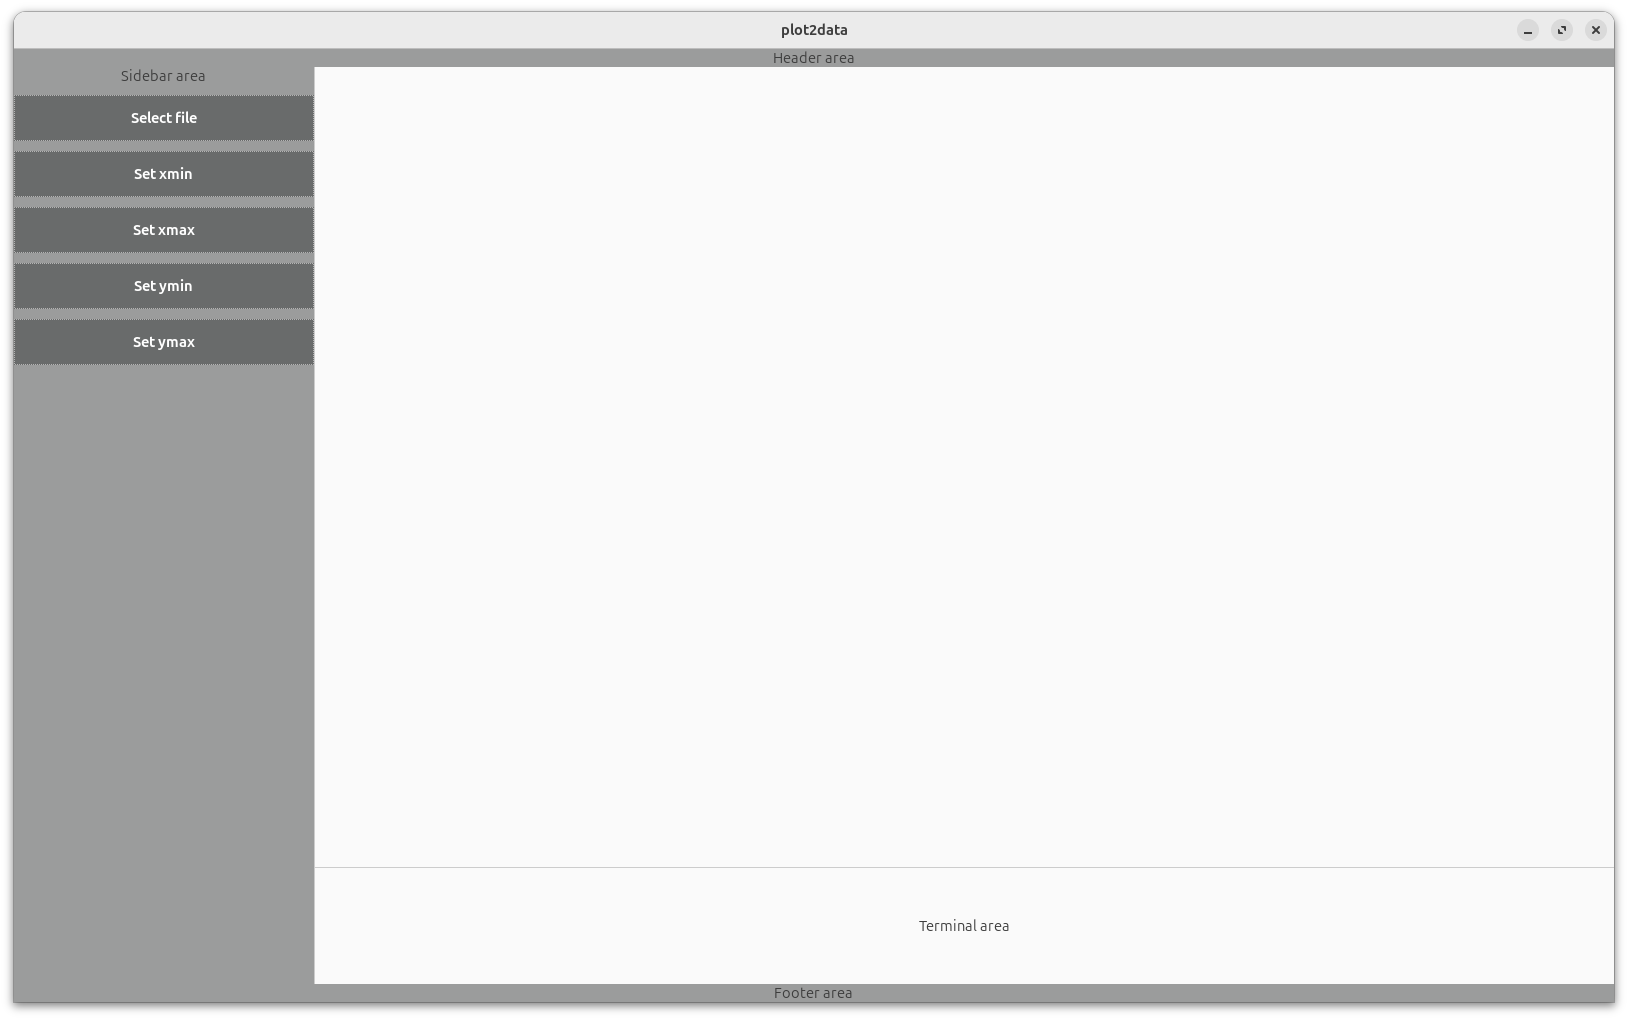
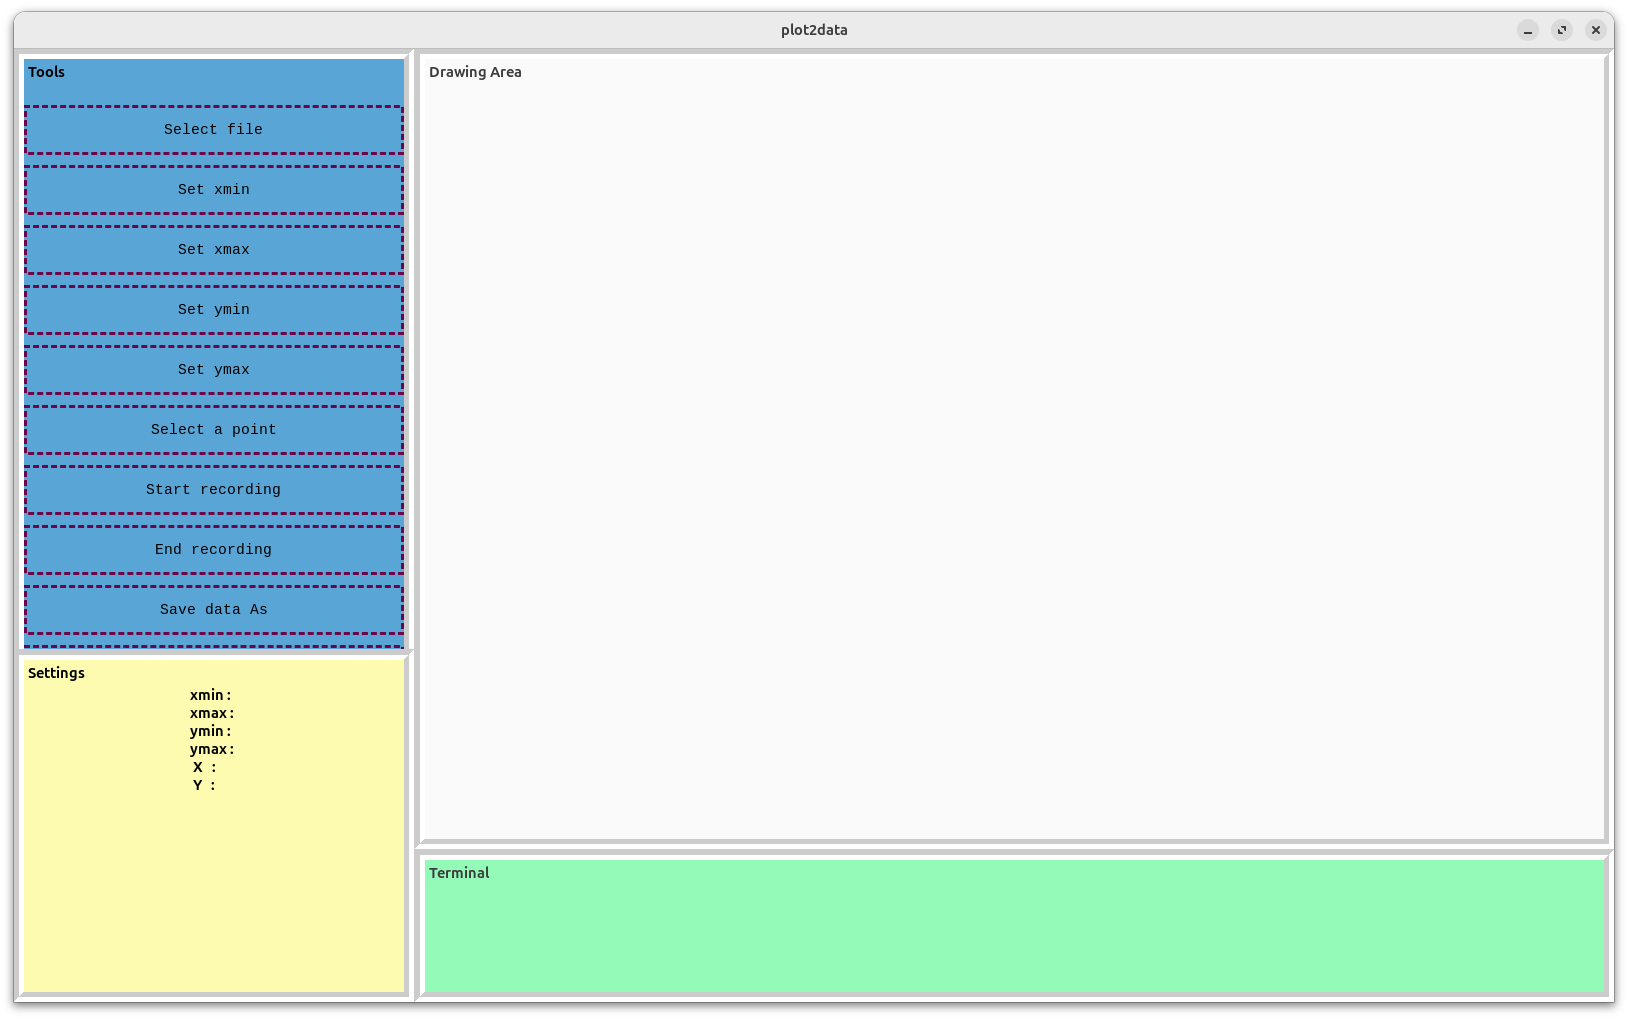
separate sidebar in two blocks

diff --git a/custom_gtkmm.css b/custom_gtkmm.css
@@ -6,12 +6,13 @@
 	border-color: rgb(108, 5, 71);
 	border-radius: 0px;
 	border-style: dashed;
-	border-width: 5px;
+	border-width: 3px;
 	padding: 10px;
+	font-family: "Lucida Console", "Courier New", monospace;
 }
 
 .button-layout:hover {
-	background: #45A049;
+	background: rgb(88, 145, 244);
 }
 
 .bar {
@@ -27,8 +28,17 @@
 	border-width: 10px;
 }
 
-#frame-sidebar {
+#frame-tools {
 	background: rgb(88, 165, 214);
+	color: rgb(0, 0, 0);
+	font-weight: bold;
+	border-radius: 0px;
+	border-style: groove;
+	border-width: 10px;
+}
+
+#frame-settings {
+	background: rgb(252, 251, 175);
 	color: rgb(0, 0, 0);
 	font-weight: bold;
 	border-radius: 0px;
@@ -44,3 +54,7 @@
 	border-width: 10px;
 }
 
+#separator-sidebar {
+	background: rgb(255, 255, 255);
+	min-height: 2px;
+}

diff --git a/app.cpp b/app.cpp
@@ -22,9 +22,13 @@ Window::Window() :
 	VBox_header(Gtk::Orientation::VERTICAL,10),
 	VBox_body(Gtk::Orientation::VERTICAL,10),
 	VBox_footer(Gtk::Orientation::VERTICAL,10),
-	VBox_sidebar(Gtk::Orientation::VERTICAL,10),
+	VBox_sidebar(Gtk::Orientation::VERTICAL,0),
+	VBox_tools(Gtk::Orientation::VERTICAL,10),
+	VBox_settings(Gtk::Orientation::VERTICAL,10),
 	HPaned(Gtk::Orientation::HORIZONTAL),
+	VPaned_sidebar(Gtk::Orientation::VERTICAL),
 	VPaned(Gtk::Orientation::VERTICAL)
+	//Separator_sidebar(Gtk::Orientation::HORIZONTAL)
 {
 	set_title("plot2data");
 	set_default_size(1600,990);
@@ -40,50 +44,89 @@ Window::Window() :
 	// Footer
 	VBox_footer.add_css_class("bar");
 	// Body overview
-		// left side
 	VBox_body.append(HPaned);
-	HPaned.set_start_child(Frame_sidebar);
-	HPaned.set_position(300); // requested size for the first child
-	Frame_sidebar.set_label("Tools");
-	Frame_sidebar.set_name("frame-sidebar");
-	Frame_sidebar.set_child(VBox_sidebar);
-		// right side
+	HPaned.set_start_child(VBox_sidebar);
+	HPaned.set_position(400); // requested size for the first child
+	VBox_sidebar.append(VPaned_sidebar);
+	VPaned_sidebar.set_start_child(ScrolledWindow_tools);
+	VPaned_sidebar.set_position(600); 
+	ScrolledWindow_tools.set_child(Frame_tools);
+	//VBox_sidebar.append(Frame_tools);
+	Frame_tools.set_label("Tools");
+	Frame_tools.set_name("frame-tools");
+	Frame_tools.set_child(VBox_tools);
+	VPaned_sidebar.set_end_child(Frame_settings);
+	Frame_settings.set_label("Settings");
+	Frame_settings.set_name("frame-settings");
+	Frame_settings.set_child(VBox_settings);
 	HPaned.set_end_child(VPaned);
-		// top of right side
 	VPaned.set_position(800);
 	VPaned.set_start_child(Frame_area);
 	Frame_area.set_label("Drawing Area");
-	Frame_area.set_label_align(Gtk::Align::CENTER);
+	Frame_area.set_label_align(Gtk::Align::START);
 	Frame_area.set_name("frame-area");
 	Frame_area.set_child(DrawingArea_plot);
 	DrawingArea_plot.set_expand();
-		// bottom of right side
 	// Create a new object: Terminal or Log that inherits from ScrolledWindow
 	VPaned.set_end_child(Frame_terminal);
 	Frame_terminal.set_label("Terminal");
-	Frame_terminal.set_label_align(Gtk::Align::CENTER);
+	Frame_terminal.set_label_align(Gtk::Align::START);
 	Frame_terminal.set_name("frame-terminal");
 
-	// Sidebar widgets
+	// Sidebar/Tools
 	VBox_sidebar.set_name("sidebar");
+	VBox_tools.set_name("sidebar-tools");
 	//VBox_sidebar.add_css_class("bar");
-	VBox_sidebar.append(Button_select_file);
+	VBox_tools.append(Button_select_file);
 	Button_select_file.set_margin_top(20);
 	Button_select_file.set_child(*Gtk::make_managed<Gtk::Label>("Select file", Gtk::Align::CENTER));
 	Button_select_file.add_css_class("button-layout");
-	VBox_sidebar.append(Button_set_xmin);
+	VBox_tools.append(Button_set_xmin);
 	Button_set_xmin.set_child(*Gtk::make_managed<Gtk::Label>("Set xmin", Gtk::Align::CENTER));
 	Button_set_xmin.add_css_class("button-layout");
-	VBox_sidebar.append(Button_set_xmax);
+	VBox_tools.append(Button_set_xmax);
 	Button_set_xmax.set_child(*Gtk::make_managed<Gtk::Label>("Set xmax", Gtk::Align::CENTER));
 	Button_set_xmax.add_css_class("button-layout");
-	VBox_sidebar.append(Button_set_ymin);
+	VBox_tools.append(Button_set_ymin);
 	Button_set_ymin.set_child(*Gtk::make_managed<Gtk::Label>("Set ymin", Gtk::Align::CENTER));
 	Button_set_ymin.add_css_class("button-layout");
-	VBox_sidebar.append(Button_set_ymax);
+	VBox_tools.append(Button_set_ymax);
 	Button_set_ymax.set_child(*Gtk::make_managed<Gtk::Label>("Set ymax", Gtk::Align::CENTER));
 	Button_set_ymax.add_css_class("button-layout");
+	VBox_tools.append(Button_get_single_coord);
+	Button_get_single_coord.set_child(*Gtk::make_managed<Gtk::Label>("Select a point", Gtk::Align::CENTER));
+	Button_get_single_coord.add_css_class("button-layout");
+	VBox_tools.append(Button_start_recording);
+	Button_start_recording.set_child(*Gtk::make_managed<Gtk::Label>("Start recording", Gtk::Align::CENTER));
+	Button_start_recording.add_css_class("button-layout");
+	VBox_tools.append(Button_end_recording);
+	Button_end_recording.set_child(*Gtk::make_managed<Gtk::Label>("End recording", Gtk::Align::CENTER));
+	Button_end_recording.add_css_class("button-layout");
+	VBox_tools.append(Button_save_data_as);
+	Button_save_data_as.set_child(*Gtk::make_managed<Gtk::Label>("Save data As", Gtk::Align::CENTER));
+	Button_save_data_as.add_css_class("button-layout");
+	VBox_tools.append(Button_measure_distance);
+	Button_measure_distance.set_child(*Gtk::make_managed<Gtk::Label>("Measure a distance", Gtk::Align::CENTER));
+	Button_measure_distance.add_css_class("button-layout");
+	
+	// Sidebar/Settings
+	VBox_settings.set_name("sidebar-settings");
+	VBox_settings.set_expand();
+	VBox_settings.append(Label_settings);
+	//Label_settings.set_wrap();
+	//Label_settings.set_justify(Gtk::Justification::FILL);
+	Label_settings.set_text("xmin : \n"
+				"xmax : \n"
+				"ymin : \n"
+				"ymax : \n"
+				" X   : \n"
+				" Y   : ");	
+
 	// etc...
+	//VBox_tools.append(Separator_sidebar);
+	//Separator_sidebar.set_name("separator-sidebar");
+
+
 	// Load extra CSS file (code copied from https://gnome.pages.gitlab.gnome.org/gtkmm-documentation/sec-custom-css-names.html)
 	m_refCssProvider = Gtk::CssProvider::create();
 #if HAS_STYLE_PROVIDER_ADD_PROVIDER_FOR_DISPLAY

diff --git a/app.h b/app.h
@@ -39,10 +39,13 @@
 class Window : public Gtk::Window {
 protected :
 	// Widgets
-	Gtk::Box VBox_main, VBox_header, VBox_body, VBox_footer, VBox_sidebar;
-	Gtk::Paned HPaned, VPaned;
+	Gtk::Box VBox_main, VBox_header, VBox_body, VBox_footer, VBox_sidebar, VBox_tools, VBox_settings;
+	Gtk::Paned HPaned, VPaned_sidebar, VPaned;
+	Gtk::ScrolledWindow ScrolledWindow_tools;
 	Gtk::DrawingArea DrawingArea_plot;
-	Gtk::Frame Frame_sidebar, Frame_terminal, Frame_area;
+	Gtk::Frame Frame_tools, Frame_settings, Frame_terminal, Frame_area;
+	Gtk::Label Label_settings;
+	//Gtk::Separator Separator_sidebar;
 
 	// Peut-être devrais-je customiser les bouttons
 	Gtk::Button Button_select_file;
